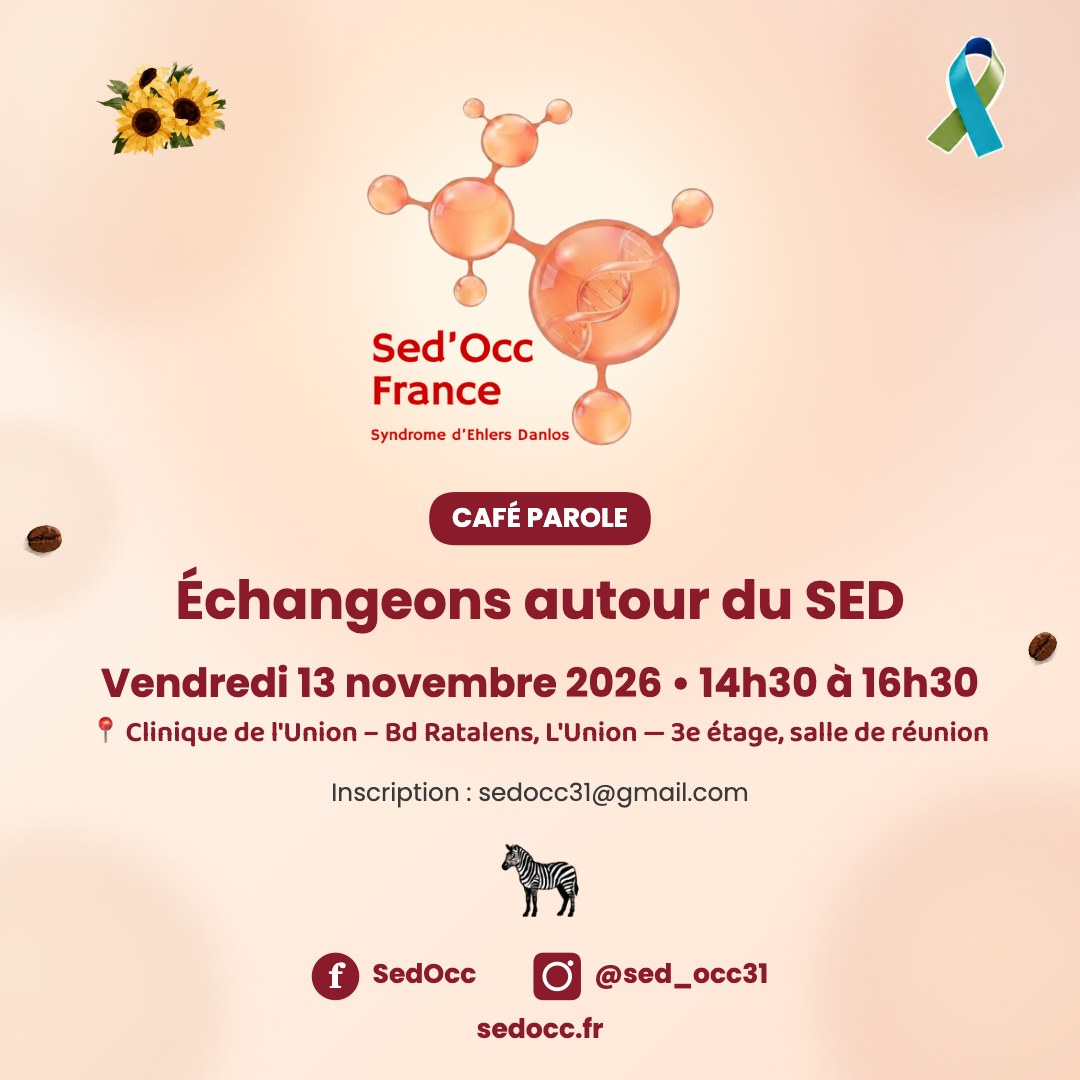
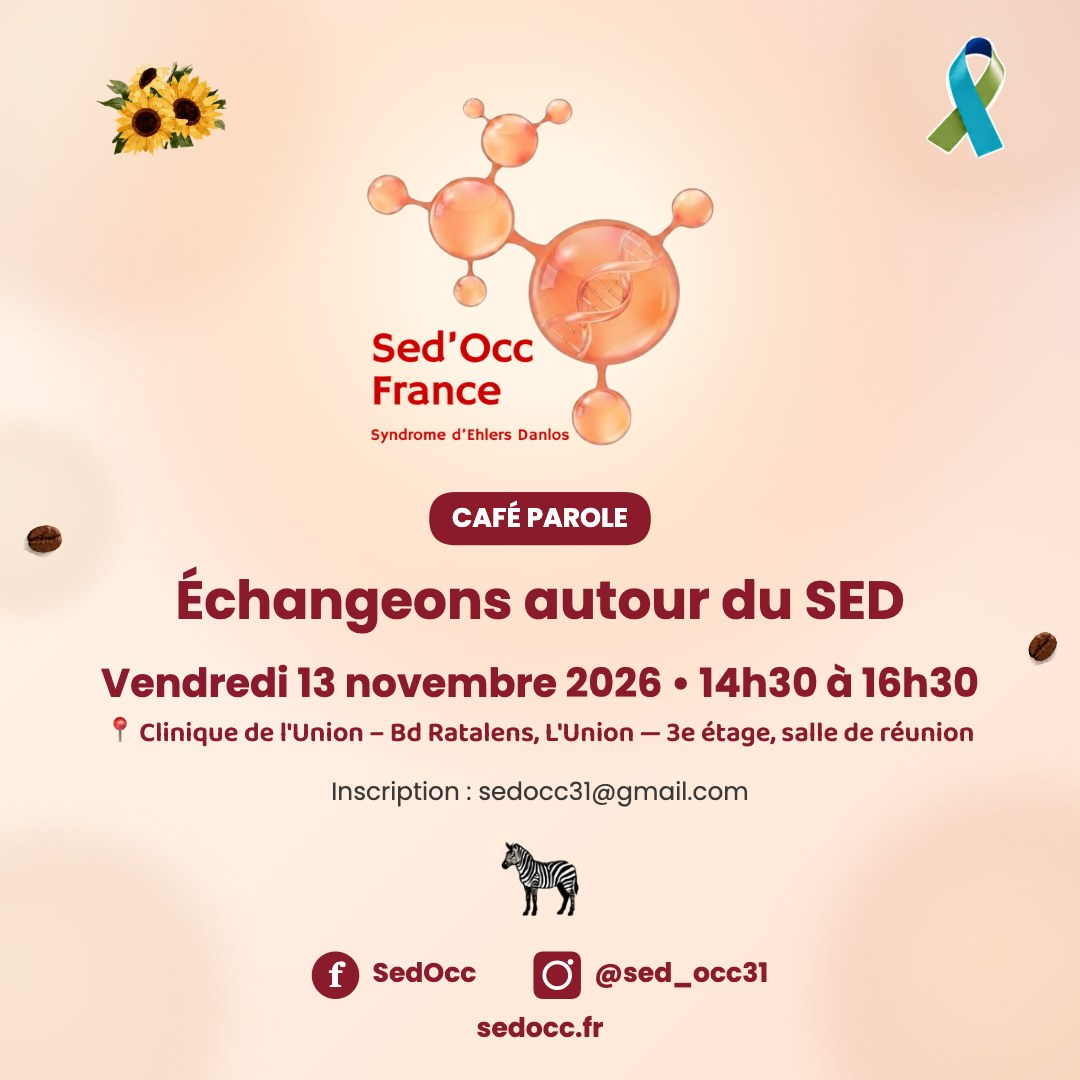
Agrandir le texte du lieu sur les visuels cafe parole

diff --git a/admin.html b/admin.html
@@ -4202,11 +4202,11 @@ function drawVisuel(ctx, fmt, style) {
     // avec une police réduite automatiquement si le texte est long (adresse + précisions),
     // pour ne pas pousser le reste du visuel (icônes, sedocc.fr) hors du cadre.
     if (lieu) {
-        let lieuFontSize = 30 * scale;
+        let lieuFontSize = 36 * scale;
         ctx.font = '600 ' + lieuFontSize + 'px "Baloo 2", cursive, sans-serif';
         let lieuLines = wrapText(ctx, '📍 ' + lieu, W - padX * 2);
         if (lieuLines.length > 1) {
-            lieuFontSize = 23 * scale;
+            lieuFontSize = 29 * scale;
             ctx.font = '600 ' + lieuFontSize + 'px "Baloo 2", cursive, sans-serif';
             lieuLines = wrapText(ctx, '📍 ' + lieu, W - padX * 2);
         }
